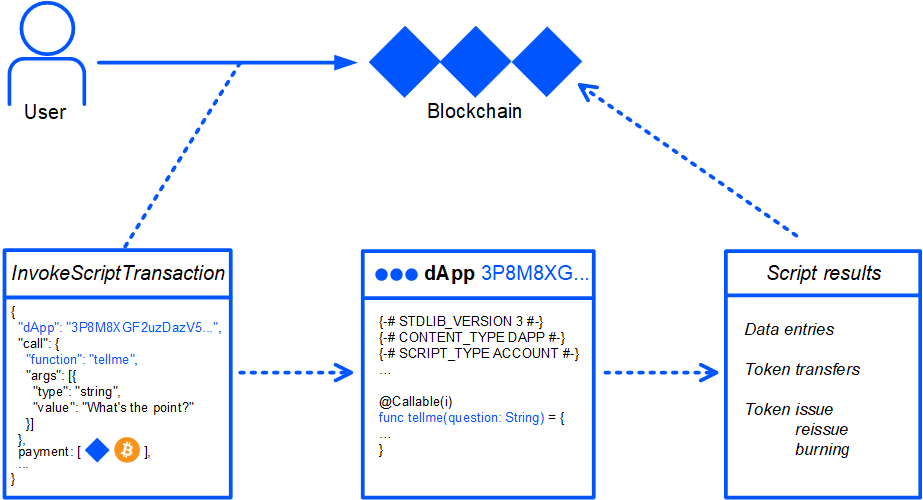
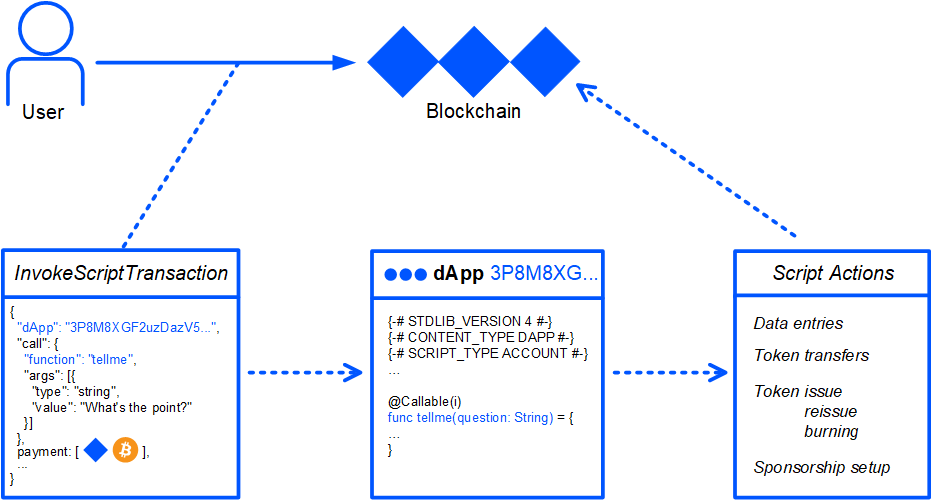
DOC-472 step

diff --git a/docs/ru/building-apps/smart-contracts/writing-dapps.md b/docs/ru/building-apps/smart-contracts/writing-dapps.md
@@ -22,7 +22,7 @@
 4. Нажмите **Show seed and private key** и сохраните секретную фразу в укромном месте — она потребуется для восстановления доступа к аккаунту.
 5. Пополните баланс аккаунта: в Testnet это бесплатно. Для этого:
 
-   * Скопируйте адрес аккаунта: нажмите на название аккаунта, затем нажмите кнопку ![](./_assets/copy-button.png).
+   * Скопируйте адрес аккаунта: нажмите на название аккаунта, затем нажмите кнопку ![](./_assets/сopy-button.png).
    * Перейдите на страницу <https://wavesexplorer.com/testnet/faucet>, вставьте адрес и нажмите **Request 10 WAVES**.
 
 ## Шаг 2. Написание dApp-скрипта
@@ -121,7 +121,7 @@ dApp-скрипт должен начинаться с директив:
 </p>
 </details>
 
-Подробнее о структуре dApp-скрипта читайте в разделе [Структура dApp-скрипта](/ru/building-apps/smart-contracts/dapp-structure).
+Подробнее о структуре dApp-скрипта читайте в разделе [Структура dApp-скрипта](/ru/building-apps/smart-contracts/what-is-a-dapp#структура-dapp-скрипта).
 
 ## Шаг 3. Установка скрипта
 
@@ -139,16 +139,18 @@ dApp-скрипт должен начинаться с директив:
 3. Выполните поиск по адресу аккаунта.
 4. Перейдите на вкладку **Script**.
 
-dApp готов к использованию — его функции можно вызывать извне блокчейна.
+dApp готов к использованию — его функции можно вызывать с помощью транзакции вызова скрипта.
 
 ## Шаг 4. Тестирование скрипта
 
 Для тестирования dApp-скрипта нужно отправить транзакцию вызова скрипта. Комиссия за вызов скрипта составляет от 0,005 WAVES и зависит от количества смарт-ассетов, используемых в вызове (в нашем примере они не используются). Формула расчета комиссии приведена в разделе [Комиссия за транзакцию](/ru/blockchain/transaction/transaction-fee).
 
-Выполнить тесты также можно прямо из Waves IDE:
+Выполнить тесты можно прямо из Waves IDE. В тестах поддерживаются функции
+* `describe` и `it` из библиотеки [mocha](https://mochajs.org/);
+* `expect` из библиотеки [chai](https://www.chaijs.com/).
 
 1. Создайте аккаунт тестового пользователя и пополните баланс — для этого повторите шаг 1.
-2. Нажмите кнопку ![](../how-to/basic/_assets/settings.png) и переключитесь на ![](../how-to/basic/_assets/testnet.png).
+2. Нажмите кнопку ![](./_assets/settings.png) и переключитесь на ![](./_assets/testnet.png).
 3. Замените автоматически сгенерированный код на ваш тест.
 
    Код теста для скрипта Waves Magic 8 Ball можно скопировать из бибилиотеки: **Library → ride4dapps → 8ball → tests → 8ball_test.js**. Не забудьте заменить значение `ballAddress` на адрес своего dApp.
@@ -184,7 +186,7 @@ describe('8 ball', () => {
 Вы можете проверить результат выполнения dApp-скрипта в Waves Explorer:
 
 1. Откройте <https://wavesexplorer.com/>.
-2. Нажмите кнопку ![](../how-to/basic/_assets/settings.png) и переключитесь на ![](../how-to/basic/_assets/testnet.png).
+2. Нажмите кнопку ![](./_assets/settings.png) и переключитесь на ![](./_assets/testnet.png).
 3. Выполните поиск по адресу аккаунта dApp.
 4. Перейдите на вкладку **Data**.
 
@@ -196,11 +198,27 @@ describe('8 ball', () => {
 
 * Создайте веб-приложение, в котором пользователь сможет, нажав кнопку, подписать и отправить транзакцию вызова скрипта.
 * Добавьте ваш dApp на Mainnet.
-* Зарегистрируйте приложение в реестрах dAppOcean и DappRadar, чтобы как можно больше пользователей узнали о нем!
+* Зарегистрируйте приложение в реестрах [dAppOcean](https://www.dappocean.io/ru/dapps/submit) и [DappRadar])(https://dappradar.com/submit-dapp), чтобы как можно больше пользователей узнали о нем!
 
 ### 5.1. Создание веб-приложения
 
-Чтобы подписать транзакцию вызова скрипта от имени реального пользователя, подключите JS-бибилиотеку Signer.
+Чтобы подписать транзакцию вызова скрипта от имени реального пользователя, подключите JS-бибилиотеку [Signer](/ru/building-apps/waves-api-and-sdk/client-libraries/signer). Signer позволяет вашему веб-приложению подписать и отправить транзакцию от имени пользователя, не запрашивая его секретную фразу (seed) или закрытый ключ.
+
+<details><summary>Код вызова скрипта</summary>
+<p>
+<code>
+await signer.invoke({
+    dApp: ballAddress,
+    call: {
+        function: "tellme",
+        args:[{"type": "string", "value": question}]
+    }
+}).broadcast()
+</code>
+
+[Полный код приложения на Github](https://github.com/elenaili/waves8ball)
+</p>
+</details>
 
 ### 5.2. Добавление dApp на Mainnet
 
@@ -221,150 +239,4 @@ dApp на Mainnet получит другой адрес — не забудьт
 
 ## Что дальше
 
-API публичных нод WAVES имеет [ограничения на количество запросов в секунду](/ru/waves-node/api-limitations-of-the-pool-of-public-nodes). Поэтому, когда ваше приложение наберет популярность, мы рекомендуем [запустить собственную ноду](/ru/waves-node/how-to-install-a-node/how-to-install-a-node) и отправлять транзакции вызова скрипта на нее.
-
-## Объявление вызываемых функций
-
-Здесь мы можем объявлять функции, которые будут вызываться с помощью InvokeScript-транзакции. Такие функции помечаются аннотацией `@Callable(contextObj)`, где `contextObj` — произвольное имя объекта контекста. Объект контекста содержит поля:
-
-- `caller` — адрес аккаунта, который вызвал данную функцию.
-- `callerPublicKey` — открытый ключ аккаунта, который вызвал данную функцию.
-- `payment` — платёж, который приложен к данному вызову функции. Платёж может быть пустым (UNIT).
-
-Вызываемая функция может использовать функции и значения из контекста скрипта (см. выше) или из своего контекста (т.е. не может использовать другие вызываемые функции и функцию валидации).
-
-```
-@Callable(contextObj)
-func foo() = {
-   if (contextObj.caller == this)
-   then
-       ScriptResult(
-            WriteSet([DataEntry("someDataKey", 42)]),
-            TransferSet([ScriptTransfer(contextObj.caller, 100500, unit)])
-        )
-   else
-       throw("Only owner can use this function.")
-}
-```
-
-Ограничения для вызываемых функций:
-
-- Имя функции не может превышать 255 символов.
-- Каждая из функций может принимать не больше 22 аргументов.
-- Допустимые типы аргументов: Int, String, Boolean, ByteVector
-
-Возможные результаты выполнения (одно значение из списка): 
-
-- ScriptResult
-- WriteSet
-- TransferSet
-
-**WriteSet** — в результате записывает список DataEntry (ключ, значение) в аккаунт. 
-
-Ограничения:
-
-- Максимальная длина списка: 100.
-- Максимальный размер одного ключа: 100 символов. 
-
-
-**TransferSet** — в результате создаёт список платежей ScriptTransfer, которые будут применены после вызова функции.
-
-Ограничения:
-
-- Максимальная длина списка: 10.
-
-**ScriptResult** — содержит WriteSet и TransferSet.
-
-```
-@Callable(contextObj)
- 
-func foo() = {
-    val a = 0
- 
-    if (a == 1)
-    then ScriptResult(
-            WriteSet([DataEntry("someDataKey", 42)]),
-            TransferSet([ScriptTransfer(contextObj.caller, 100500, unit)])
-        )
- 
-    else if (a == 2)
-    then WriteSet([DataEntry("someDataKey", 42)]),
-    else
-        TransferSet([ScriptTransfer(contextObj.caller, 100500, unit)])
- 
-}
-```
-
-## Объявление функции валидации
-Функция валидации в dApp играет роль скрипта аккаунта — она валидирует все исходящие из данного аккаунта транзакции.
-
-Такая функция помечается аннотацией `@Verifier(tx)`, где `tx` — текущая транзакция, которую в данный момент функция проверяет. Доступные поля транзакции по её типу можно посмотреть в разделе [Структуры транзакций](/en/ride/structures/transaction-structures).
-
-Возможные результаты выполнения:
-
-- true
-- false
-- ошибка
-
-Если в dApp нет функции валидации, то выполняется алгоритм валидации по умолчанию (с помощью функции `sigVerify`).
-
-
-
-Пример функции, разрешающей только Transfer-транзакции (любая другая транзакция с данного аккаунта отправлена не будет):
-```
-@Verifier(tx)
-func verify() = {
-    match tx {
-        case ttx:TransferTransaction => sigVerify(ttx.bodyBytes, ttx.proofs[0], ttx.senderPublicKey)
-        case _ => false
-    }
-}
-```
-
-## Параметры функции InvokeScriptTransaction
-
-| Имя параметра | Тип параметра | Описание  |
-|---|---|---|
-|  type  |Int   |  тип транзакции (16 для InvokeScript) |
-| dApp   | Address  | адрес, по которому вызывается функция  |
-|  payment  | OPTION[AttachedPayment]  | отправляемый платеж (размер, ассет) |
-|  fee  |  Int | размер вознаграждения |
-| feeAssetId | OPTION[ByteVector] | идентификатор ассета вознаграждения (null для WAVES)|
-|  call: <br /> - function <br /> -args | <br /> String <br />LIST[UNION(Boolean,ByteVector,Int,String)]  | <br /> имя вызываемой функции <br /> список передаваемых аргументов |
-|  id  | ByteVector  |  идентификатор транзакции |
-|  timestamp  |  Int | время выполнения транзакции  |
-|  version  | Int  |  версия транзакции (на текущий момент 1) |
-|  sender  |  Address |  адрес вызывающего аккаунта |
-|  senderPublicKey  | ByteVector  |  открытый ключ вызывающего аккаунта |
-| proofs   | LIST[ByteVector]  |  набор подписей, подтверждающих подлинность транзакции |
-|  chainId |  Byte | идентификатор сети блокчейна <br /> "T" — тестовая <br /> "W" — боевая  |
-
-## JSON InvokeScript-транзакции
-
-```
-{
- 
-  "type": 16,
-  "version": 1,
-  "senderPublicKey": "2GEvUnpNpve2rSAs51c2HMTkaCYW9QRgwR16Z2HGJZgC",
-  "dApp": "3FYR1f5YydHXF8dtfRJRyX3PoDCoT7a36Kq",
-  "call": {
-    "function": "deposit",
-    "args": [{type:"integer", value: 600000000}]
-  },
-  "payment": [
-    {
-      "amount": 200000000,
-      "assetId": null
-    }
-  ],
-  "fee": 1000000,
-  "feeAssetId": null,
-  "timestamp": 1555073997308,
-  "chainId": 68,
-  "proofs": [
[1 lines of base64/hex data omitted]
-  ],
-  "id": "2fcMC9ihuLAcGNsbiSLDgz8dekq2JkrtjihroUiyNYCp"
-}
-```
+API публичных нод WAVES имеет [ограничения на количество запросов в секунду](/ru/waves-node/api-limitations-of-the-pool-of-public-nodes). Поэтому, когда ваше приложение наберет популярность, рекомендуем [запустить собственную ноду](/ru/waves-node/how-to-install-a-node/how-to-install-a-node) и отправлять транзакции вызова скрипта на нее.

diff --git a/docs/ru/building-apps/smart-contracts/what-is-a-dapp.md b/docs/ru/building-apps/smart-contracts/what-is-a-dapp.md
@@ -2,17 +2,22 @@
 
 dApp — это аккаунт Waves с установленным dApp-скриптом.
 
-dApp-скрипт представляет собой код на языке Ride. Он содержит вызываемые (сallable) функции, которые могут быть вызваны путем отправки транзакции вызова скрипта. Транзакция вызова скрипта содержит:
+dApp-скрипт представляет собой код на языке Ride. Он содержит вызываемые (сallable) функции, которые могут быть вызваны путем отправки транзакции вызова скрипта.
+
+Транзакция вызова скрипта содержит:
 
 * адрес dApp;
 * имя вызываемой функции и значения аргументов;
 * дополнительно транзакция вызова может содержать платежи, которые будут зачислены на баланс dApp.
 
+[Пример транзакции вызова скрипта](https://nodes.wavesnodes.com/transactions/info/7CVjf5KGRRYj6UyTC2Etuu4cUxx9qQnCJox8vw9Gy9yq)
+
 Результатом выполнения скрипта могут быть:
 
 * добавление, редактирование, изменение записей в хранилище данных аккаунта dApp;
 * переводы средств;
-* выпуск, довыпуск, сжигание токена.
+* выпуск, довыпуск, сжигание токена;
+* настройка спонсирования.
 
 ![](./_assets/dapp.png)
 
@@ -22,13 +27,88 @@ dApp-скрипт содержит одну или несколько вызыв
 
 Кроме того, dApp-скрипт может содержать функцию-верификатор, которая проверяет транзакции и ордера, отправляемые с аккаунта dApp (то есть работает аналогично скрипту аккаунта).
 
-Подробное описание см. в разделе [Структура dApp](/ru/building-apps/smart-contracts/dapp-structure).
+![](./_assets/dapp-structure.png)
+
+### Директивы
+
+Каждый скрипт Ride должен начинаться с директив. Для dApp набор директив следующий:
+
+```ride
+{-# STDLIB_VERSION 3 #-}
+{-# CONTENT_TYPE DAPP #-}
+{-# SCRIPT_TYPE ACCOUNT #-}
+```
+
+Приведенная директива сообщает компилятору, что:
+
+- в скрипте будет использоваться Стандартная библиотека версии 3 (версия 4 в настоящее время доступна только на Stagenet);
+- тип скрипта — dApp;
+- скрипт будет привязан к аккаунту (а не к ассету).
+
+### Контекст скрипта
+
+Контекст скрипта всегда включает [встроенные переменные](/ru/ride/variables/built-in-variables) и [встроенные функции](/ru/ride/functions/built-in-functions).
+
+Кроме того, между директивами и вызываемой функцией можно объявить собственные переменные и вспомогательные функции, которые будут доступны в пределах всего dApp.
+
+Пример:
+
+```
+let someConstant = 42
+func doSomething() = {
+    1+1
+}
+```
+
+### Вызываемые функции
+
+dApp-скрипт может содержать несколько вызываемых функций. Вызываемая функция сопровождается [аннотацией](/ru/ride/functions/annotations) `@Callable(i)`, где `i` — структура [Invocation](/ru/ride/structures/common-structures/invocation), которая содержит поля транзакции вызова скрипта, которые может использовать вызываемая функция.
+
+Результат выполнения вызываемой функции — набор [действий скрипта](/ru/ride/structures/script-actions), которые будут выполнены на блокчейне: добавление записей в хранилище данных аккаунта, переводы токенов и др. Формат результата и доступные действия зависят от версии Стандартной библиотеки.
+
+Подробное описание приведено в разделе [Вызываемая функция](/ru/ride/functions/callable-function).
+
+Ниже приведен пример вызываемой функции, которая записывает в [хранилище данных аккаунта](/ru/blockchain/account/account-data-storage) значение `42` по ключу `someDataKey`, если ее вызывает владелец аккаунта. Если это пытается сделать кто-то другой, функция выбрасывает исключение.
+
+```ride
+@Callable(i)
+func foo() = {
+   if (i.caller == this)
+   then
+       ScriptResult(
+            WriteSet([DataEntry("someDataKey", 42)]),
+            TransferSet([ScriptTransfer(i.caller, 100500, unit)])
+        )
+   else
+       throw("Only owner can use this function.")
+}
+```
+
+### Функция-верификатор
+
+Функция-верификатор проверяет транзакции и ордера, отправляемые с аккаунта dApp (то есть работает аналогично скрипту аккаунта). Эта функция помечается аннотацией `@Verifier(tx)`, где `tx` — текущая проверяемая транзакция или ордер.
+
+Подробное описание приведено в разделе [Функция-верификатор](/ru/ride/functions/verifier-function).
+
+Ниже приведен пример функции-верификатора, которая разрешает только [транзакции перевода](/ru/blockchain/transaction-type/transfer-transaction) (отправка транзакций другого типа запрещена). Определить тип транзакции позволяет оператор [match](/ru/ride/operators/match-case).
+
+```ride
+@Verifier(tx)
+func verify() = {
+    match tx {
+        case ttx:TransferTransaction => sigVerify(ttx.bodyBytes, ttx.proofs[0], ttx.senderPublicKey)
+        case _ => false
+    }
+}
+```
+
+Если в dApp нет функции верификации, то выполняется верификация по умолчанию, то есть проверка, что транзакция или ордер действительно подписаны этим аккаунтом.
 
 ## Данные, к которым имеет доступ dApp
 
 dApp может использовать данные блокчейна:
 
-* Записи в хранилищах данных аккаунтов.
+* Записи в хранилищах данных аккаунтов (как аккаунта самого dApp, так и любых других).
 * Балансы аккаунтов.
 * Ассеты.
 * Высота блокчейна.
@@ -48,7 +128,7 @@ dApp может использовать данные блокчейна:
 
 Создать транзакцию установки скрипта можно:
 * В [Waves IDE](https://ide.wavesplatform.com/): откройте dApp-скрипт и нажмите **Deploy**.
-* С помощью одной из [клиенских библиотек](/ru/building-apps/waves-api-and-sdk/client-libraries/). См. также примеры в разделе [Создание и отправка транзакций](/ru/building-apps/how-to/basic/transaction).
+* С помощью одной из [клиентских библиотек](/ru/building-apps/waves-api-and-sdk/client-libraries/). См. также примеры в разделе [Создание и отправка транзакций](/ru/building-apps/how-to/basic/transaction).
 
 [Пример транзакции](https://wavesexplorer.com/testnet/tx/213JdqCLq6qGLUvoXkMaSA2wLSwdzH24BuhHBhcBeHUR)
 
